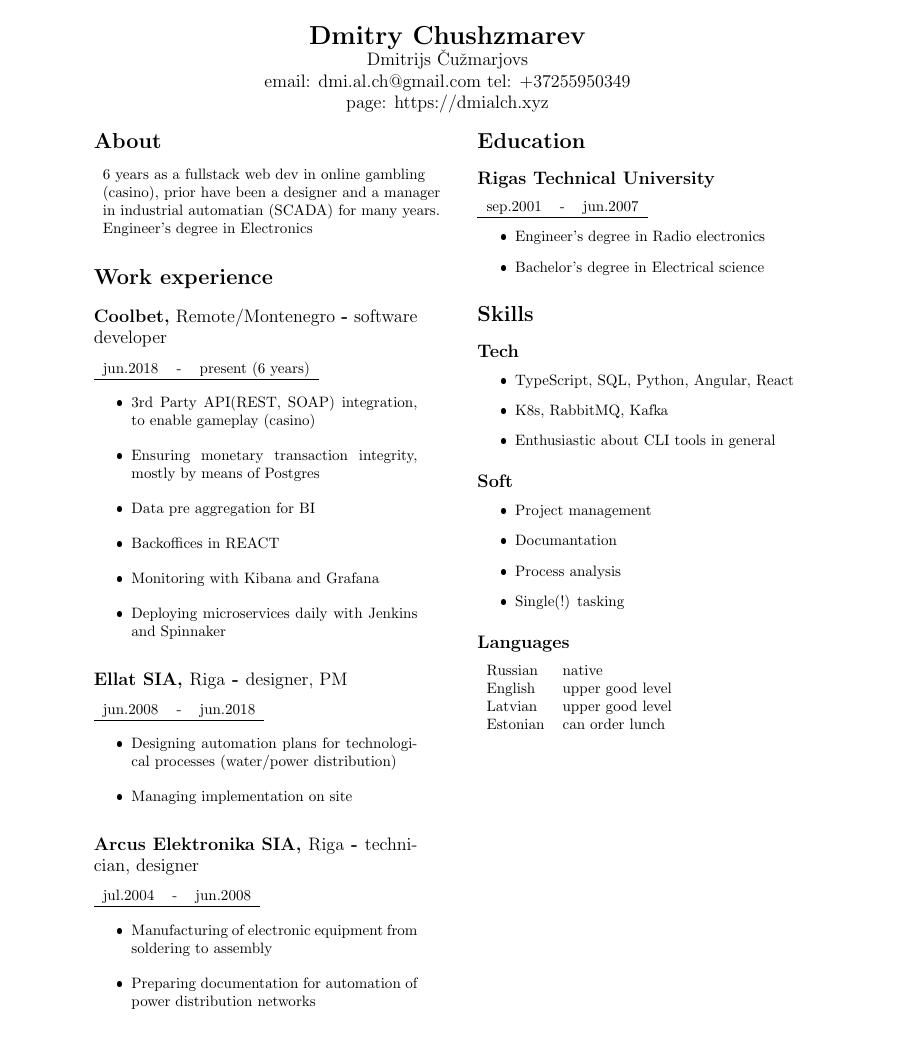
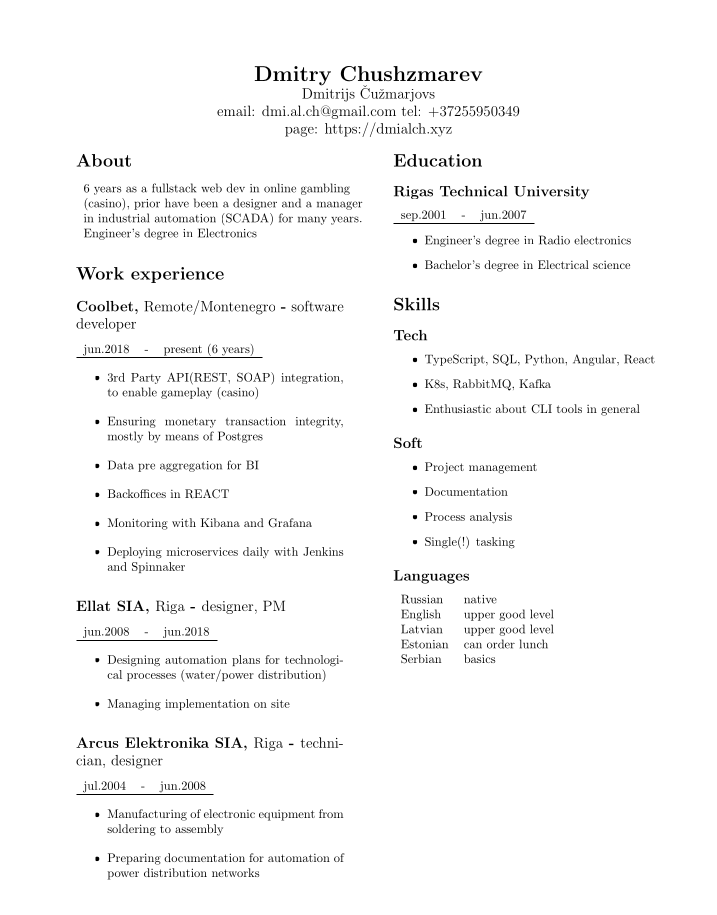
tweaked language knowledge

Changed region(s): [[0.0921, 0.0, 0.9205, 0.9792], [0.3989, 0.2754, 0.4603, 0.3366]]

diff --git a/resume.tex b/resume.tex
@@ -84,6 +84,7 @@ Engineer's degree in Electronics
     English & upper good level \\
     Latvian & upper good level \\
     Estonian & can order lunch \\
+    Serbian & basics \\
 \end{tabular}
 \end{multicols*}
 \end{document}
